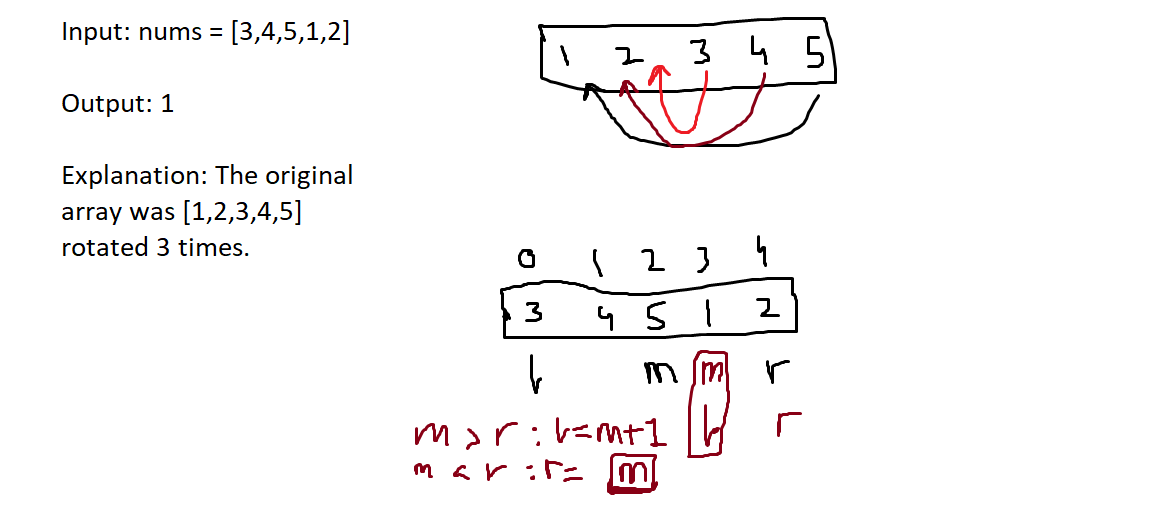
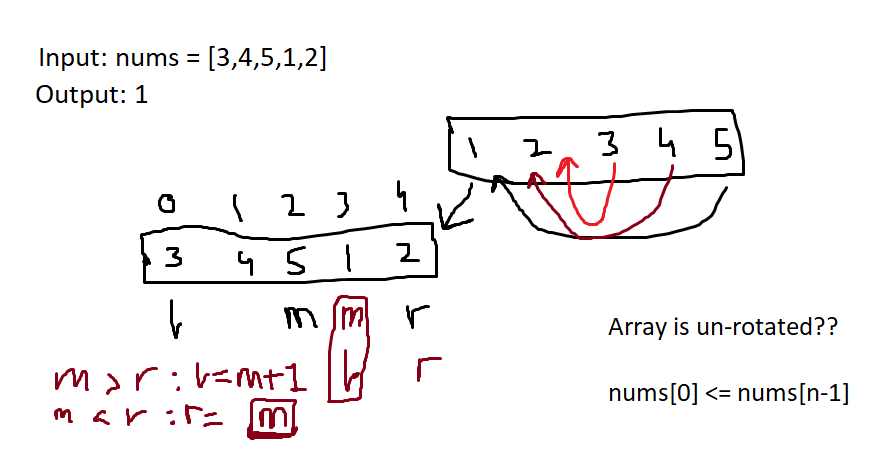
Blind-75: LeetCode (153)

diff --git a/binary search/153. Find Minimum in Rotated Sorted Array/code.py b/binary search/153. Find Minimum in Rotated Sorted Array/code.py
@@ -2,24 +2,42 @@ from typing import List
 
 class Solution:
     def findMin(self, nums: List[int]) -> int:
+        n = len(nums)
+
+        # Edge case: Single Element or No-rotation array
+        if n == 1 or nums[0] <= nums[n-1]:
+            return nums[0]
+
         # Pointers for binary search
         left = 0
-        right = len(nums) - 1
-
+        right = n - 1
+        
+        # Runs for last possible element
         while left < right:
             # Calculate mid
             ''' mid = (left + right) // 2 '''
             mid = left + (right - left) // 2
 
+            # Un-standard
+            '''
+            # Right to mid
+            if nums[mid+1] < nums[mid]:
+                return nums[mid+1]
+
+            # Mid
+            if nums[mid] < nums[mid-1]:
+                return nums[mid]
+            '''
+            
             # If mid is greater, minimum must be on right side
             if nums[mid] > nums[right]:
                 left = mid + 1
-            
+
             # If less, minimum must be on left side 
             else:
                 right = mid
-        
-        # Left pointer will contain minimum
+
+        # Minimum element
         return nums[left]
 
 
@@ -28,5 +46,5 @@ print(obj.findMin([3, 4, 5, 1, 2]))              # 1
 print(obj.findMin([4, 5, 6, 7, 0, 1, 2]))        # 0
 print(obj.findMin([11, 13, 15, 17]))             # 11
 
-# T.C: O(LOG N)
-# S.C: O(1)
+# T.C: O(LOG N)             --> Binary Search used
+# S.C: O(1)                 --> No data structure used

diff --git a/2 Pointers/11. Container With Most Water/code.py b/2 Pointers/11. Container With Most Water/code.py
@@ -34,4 +34,4 @@ print(obj.maxArea([1, 8, 6, 2, 5, 4, 8, 3, 7]))  # Output: 49
 print(obj.maxArea([1, 1]))                       # Output: 1
 
 # T.C: O(N)     --> Loop on N numbers
-# S.C: O(1)     --> No data structure usued
+# S.C: O(1)     --> No data structure used

diff --git a/docs/Blind75/01_arrays.md b/docs/Blind75/01_arrays.md
@@ -409,6 +409,69 @@ print(obj.threeSum([0, 0, 0]))                # [[0, 0, 0]]
 # S.C: O(1) / O(LOG N)      --> Depending on sorting
 ```
 
+---
+
+## 9. LeetCode 153: Find Minimum in Rotated Sorted Array (Medium)
+
+* **Identified Pattern Upfront:** Binary Search
+* **Time Taken:**  minutes
+* **Solution Folder:** [`../../binary%20search/153.%20Find%20Minimum%20in%20Rotated%20Sorted%20Array/`](../../binary%20search/153.%20Find%20Minimum%20in%20Rotated%20Sorted%20Array/)
+* **Submittion Link:** [`Link`]()
+
+### Code Solution
+
+```python
+from typing import List
+
+class Solution:
+    def findMin(self, nums: List[int]) -> int:
+        n = len(nums)
+
+        # Edge case: Single Element or No-rotation array
+        if n == 1 or nums[0] <= nums[n-1]:
+            return nums[0]
+
+        # Pointers for binary search
+        left = 0
+        right = n - 1
+        
+        # Runs for last possible element
+        while left < right:
+            # Calculate mid
+            ''' mid = (left + right) // 2 '''
+            mid = left + (right - left) // 2
+
+            # Un-standard
+            '''
+            # Right to mid
+            if nums[mid+1] < nums[mid]:
+                return nums[mid+1]
+
+            # Mid
+            if nums[mid] < nums[mid-1]:
+                return nums[mid]
+            '''
+            
+            # If mid is greater, minimum must be on right side
+            if nums[mid] > nums[right]:
+                left = mid + 1
+
+            # If less, minimum must be on left side 
+            else:
+                right = mid
+
+        # Minimum element
+        return nums[left]
+
+
+obj = Solution()
+print(obj.findMin([3, 4, 5, 1, 2]))              # 1
+print(obj.findMin([4, 5, 6, 7, 0, 1, 2]))        # 0
+print(obj.findMin([11, 13, 15, 17]))             # 11
+
+# T.C: O(LOG N)             --> Binary Search used
+# S.C: O(1)                 --> No data structure used
+```
 
 
 
